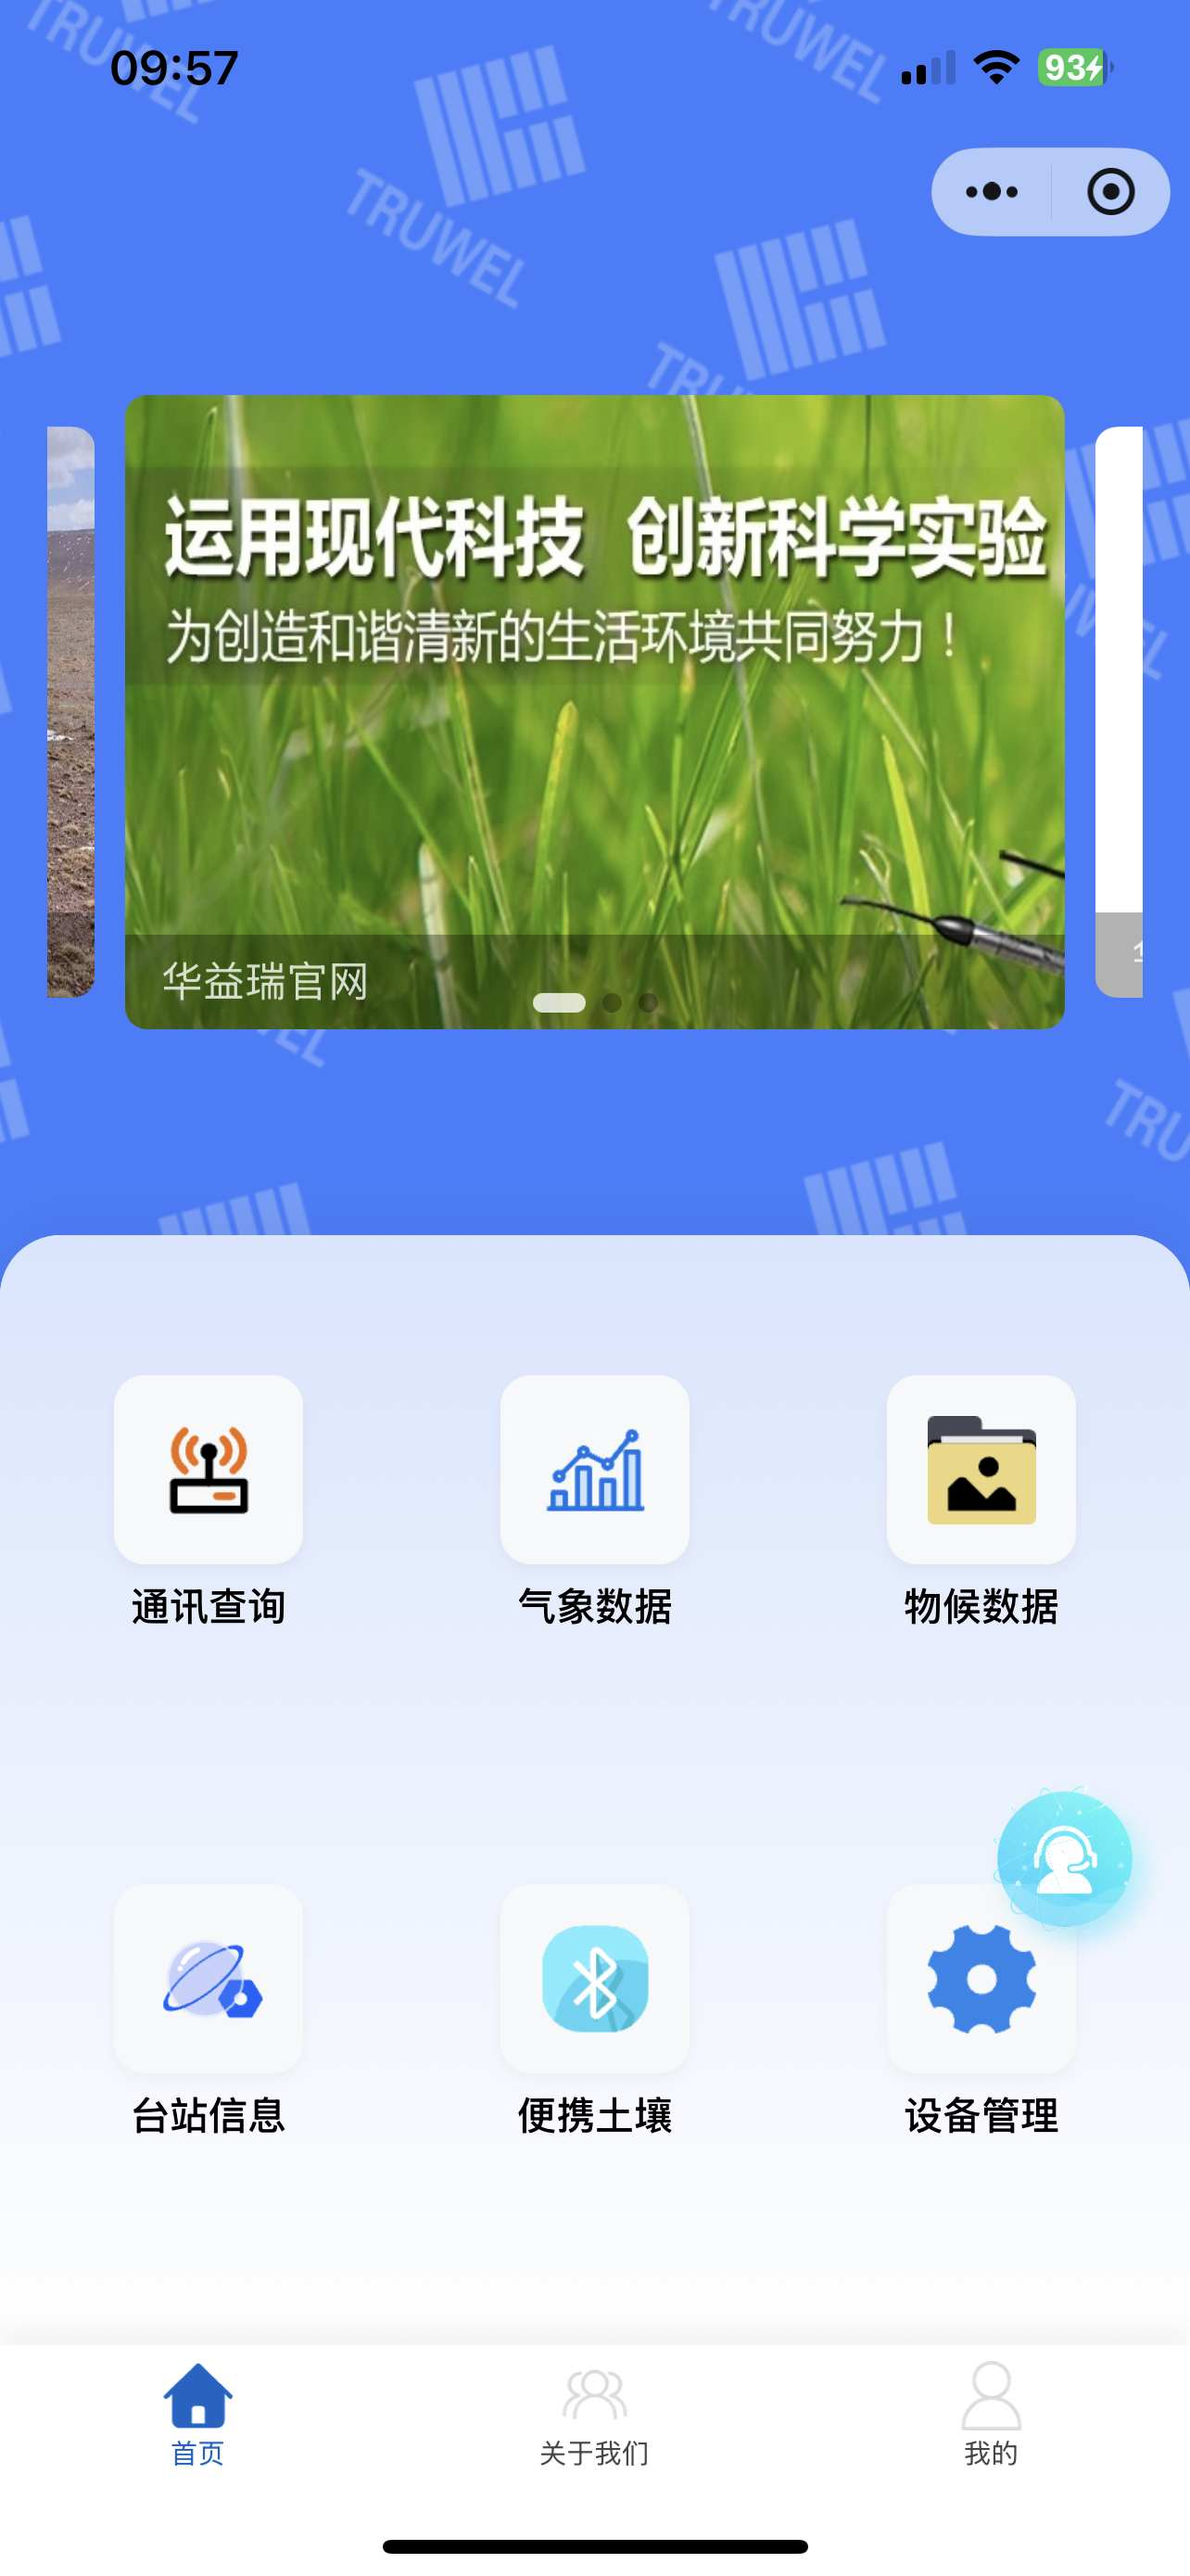
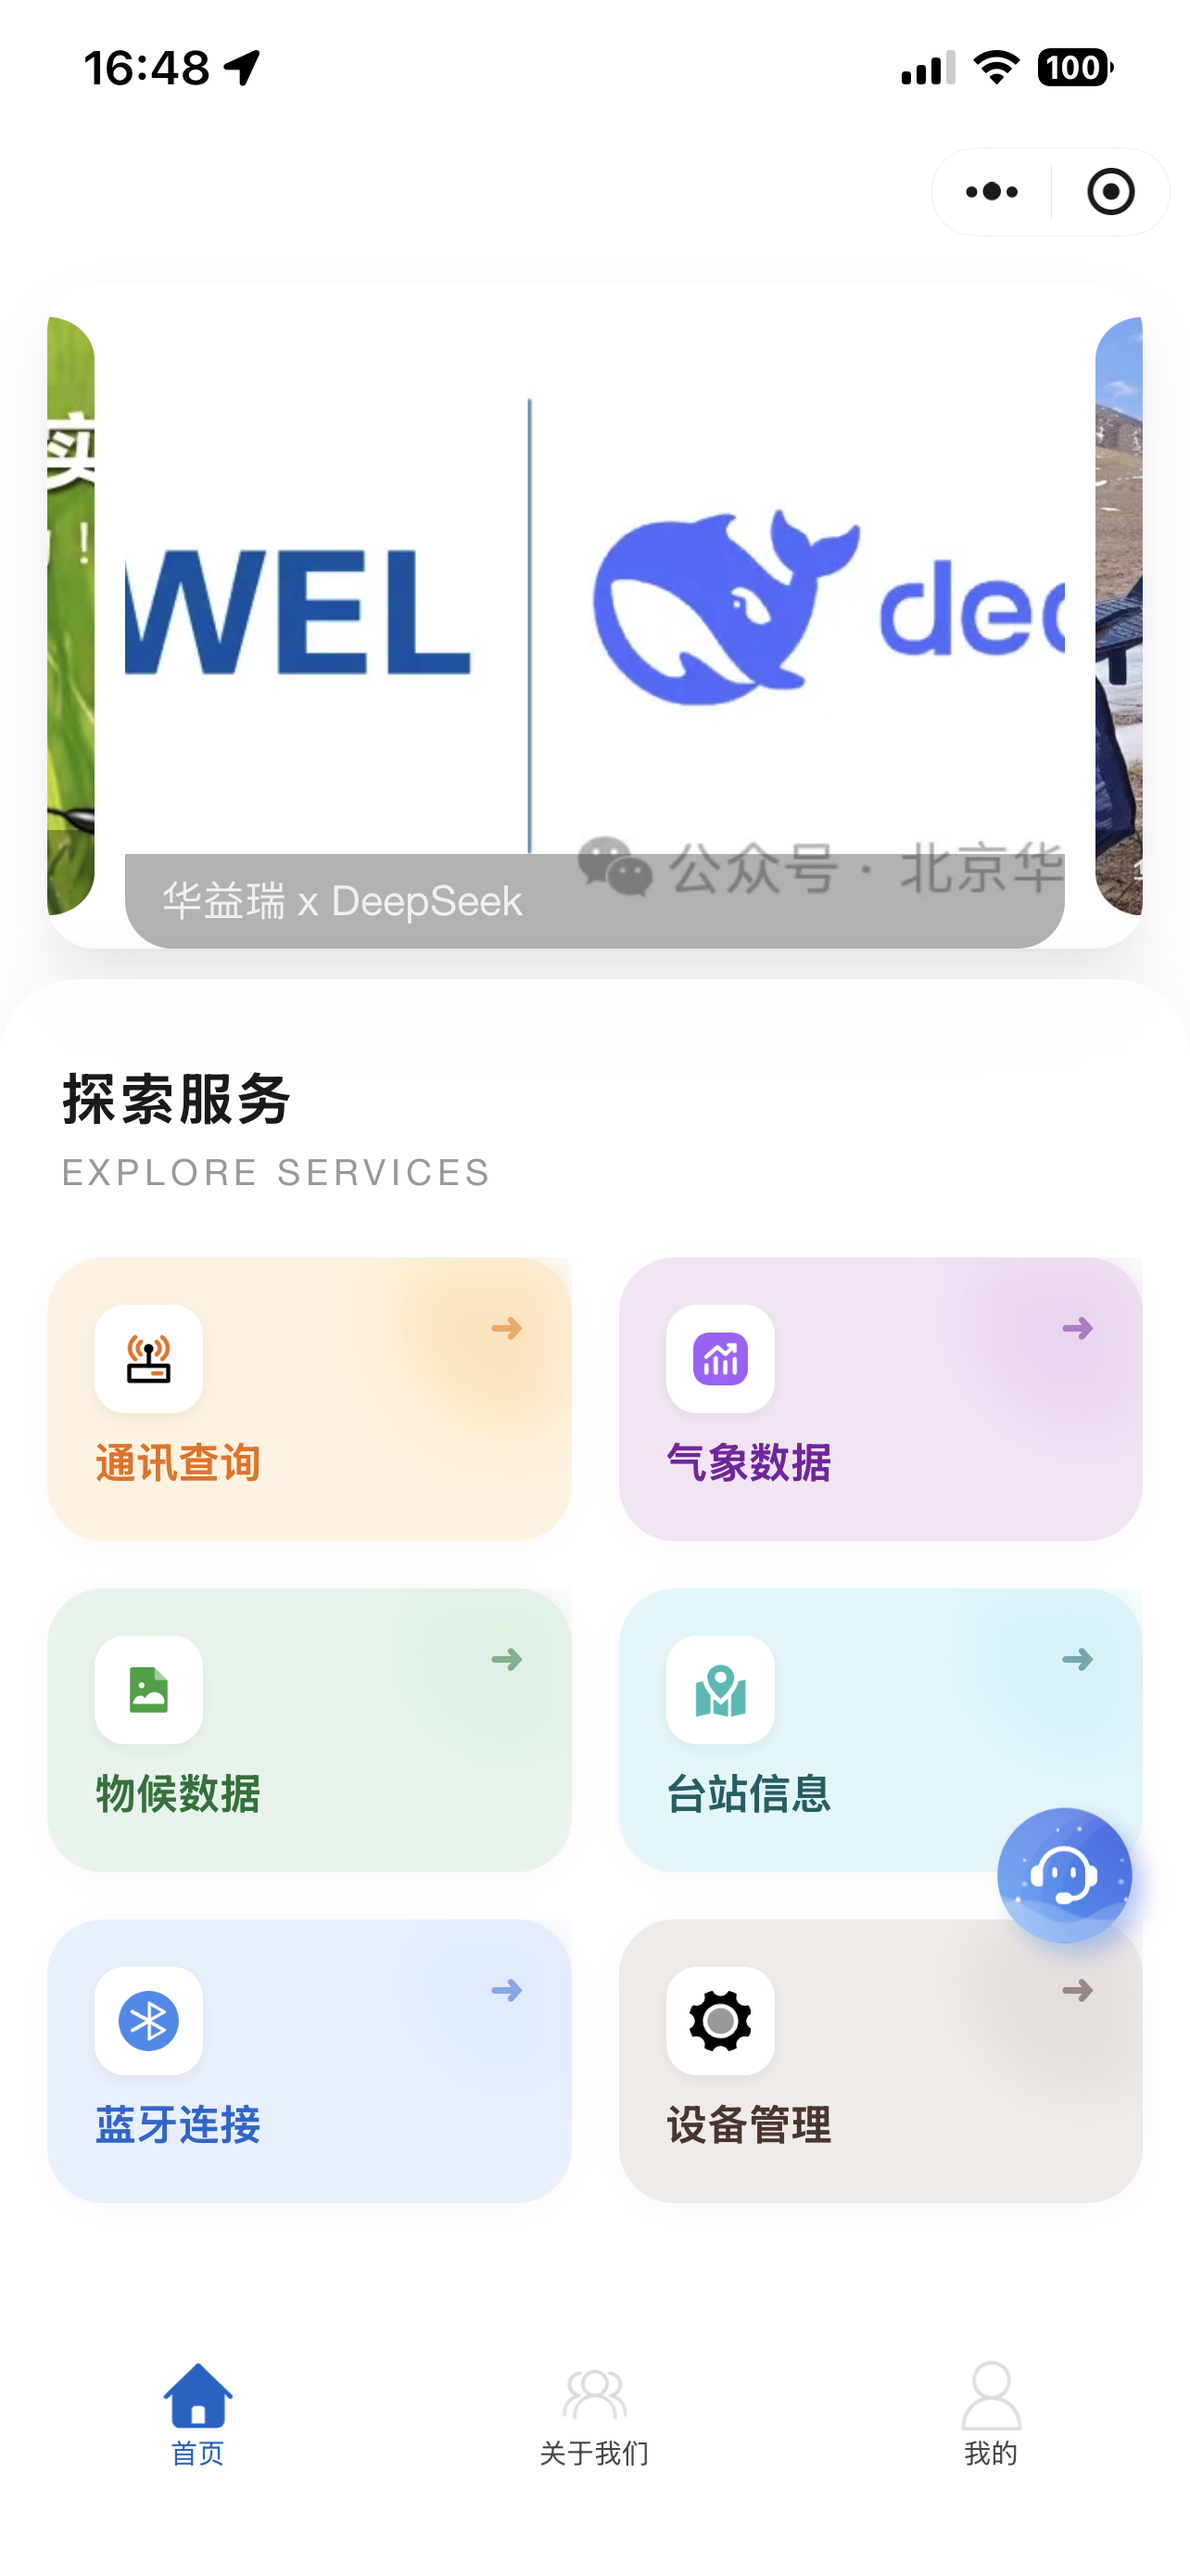
chore: replace wechat imgs

diff --git a/docs/guide/wechat.md b/docs/guide/wechat.md
@@ -6,12 +6,17 @@ category:
 description: 小程序
 ---
 
-云平台提供了微信小程序版本,目前支持数据、物候和站点查询,扫描:point_down:下方二维码即可进入小程序
+云平台提供了微信小程序版本，目前支持蓝牙连接数采，数据、物候和站点查询，扫描:point_down:下方二维码即可进入小程序
 <div align=center><img src="../_media/wechat_mini_qrcode.jpg" width="30%"/></div>
 <div align=center>
 <span style="width:25%;display:inline-block">
 
 ![](../_media/wechat_home.png)
+
+</span>
+<span style="width:25%;display:inline-block">
+
+![](../_media/wechat_ble.png)
 
 </span>
 <span style="width:25%;display:inline-block">

diff --git a/docs/guide/home.md b/docs/guide/home.md
@@ -26,7 +26,7 @@ description: 首页介绍
 <div align=center>
 <span style="width:50%;display:inline-block">
 
-![](../_media/dashboard_egi.png)
+![](../_media/dashboard_exhibition_latest.png)
 
 </span>
 <span style="width:50%;display:inline-block">

diff --git a/docs/release/log.md b/docs/release/log.md
@@ -6,6 +6,10 @@ category:
 description: TruwelCloud release log
 ---
 
+### 2.5.0
+
+- [x] 支持自研DL800数据接入
+
 ### 2.4.0
 
 - [x] 支持微信小程序查询

diff --git a/docs/README.md b/docs/README.md
@@ -44,6 +44,10 @@ footer:
 
 ## 更新日志
 
+### 2.5.0
+
+- [x] 支持自研DL800数据接入
+
 ### 2.4.0
 
 - [x] 支持微信小程序查询
